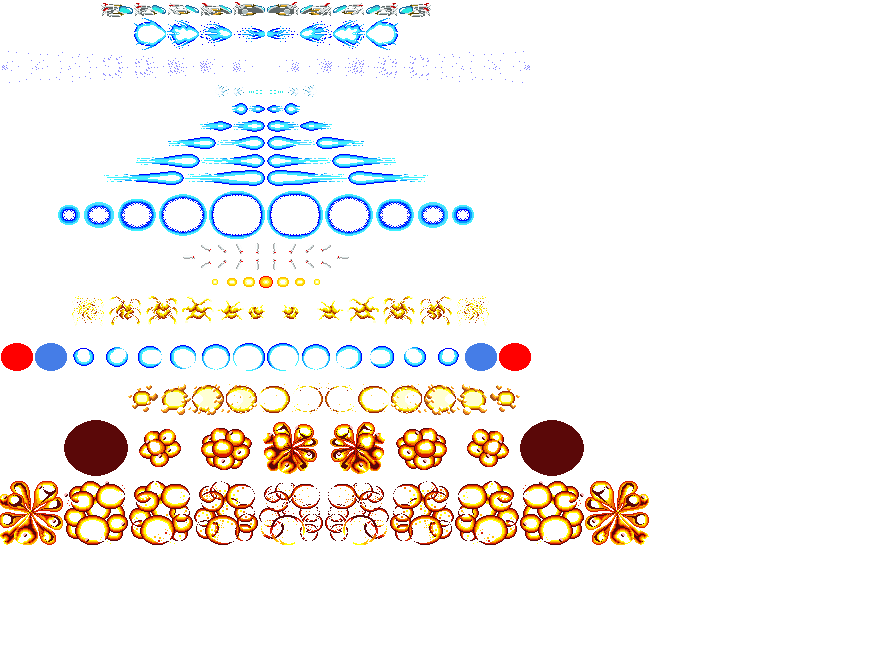
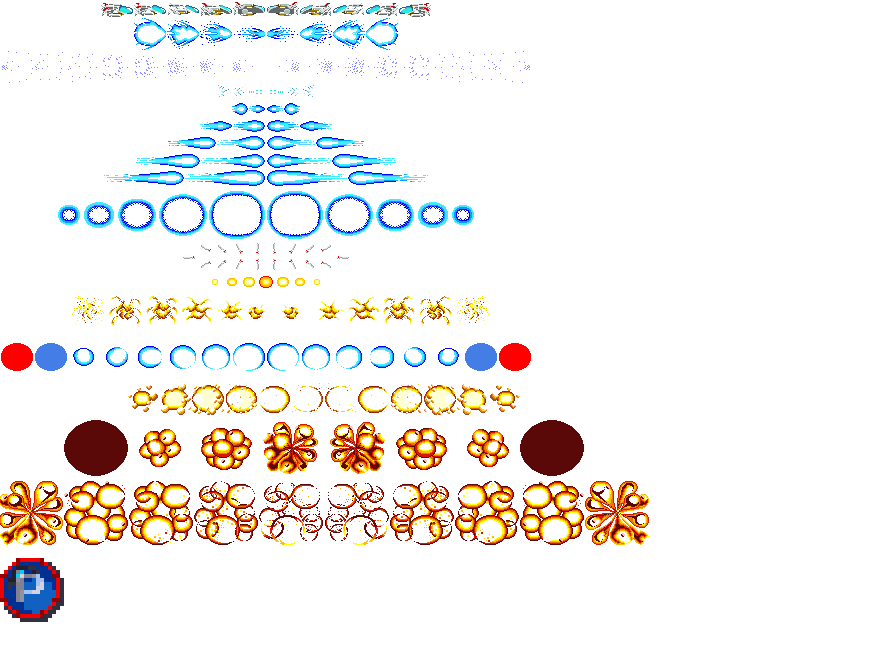
preparacio per al power up

Changed region(s): [[0.0, 0.8655, 0.0924, 0.9583]]

diff --git a/ModuleCollision.cpp b/ModuleCollision.cpp
@@ -11,30 +11,42 @@ ModuleCollision::ModuleCollision(Application* app, bool start_enabled) : Module(
 	matrix[COLLIDER_WALL][COLLIDER_ENEMY] = true;
 	matrix[COLLIDER_WALL][COLLIDER_PLAYER_SHOT] = true;
 	matrix[COLLIDER_WALL][COLLIDER_ENEMY_SHOT] = true;
+	matrix[COLLIDER_WALL][COLLIDER_POWER_UP] = false;
 
 	matrix[COLLIDER_PLAYER][COLLIDER_WALL] = true;
 	matrix[COLLIDER_PLAYER][COLLIDER_PLAYER] = false;
 	matrix[COLLIDER_PLAYER][COLLIDER_ENEMY] = true;
 	matrix[COLLIDER_PLAYER][COLLIDER_PLAYER_SHOT] = false;
 	matrix[COLLIDER_PLAYER][COLLIDER_ENEMY_SHOT] = true;
+	matrix[COLLIDER_PLAYER][COLLIDER_POWER_UP] = true;
 
 	matrix[COLLIDER_ENEMY][COLLIDER_WALL] = true;
 	matrix[COLLIDER_ENEMY][COLLIDER_PLAYER] = true;
 	matrix[COLLIDER_ENEMY][COLLIDER_ENEMY] = false;
 	matrix[COLLIDER_ENEMY][COLLIDER_PLAYER_SHOT] = true;
 	matrix[COLLIDER_ENEMY][COLLIDER_ENEMY_SHOT] = false;
+	matrix[COLLIDER_ENEMY][COLLIDER_POWER_UP] = false;
 
 	matrix[COLLIDER_PLAYER_SHOT][COLLIDER_WALL] = true;
 	matrix[COLLIDER_PLAYER_SHOT][COLLIDER_PLAYER] = false;
 	matrix[COLLIDER_PLAYER_SHOT][COLLIDER_ENEMY] = true;
 	matrix[COLLIDER_PLAYER_SHOT][COLLIDER_PLAYER_SHOT] = false;
 	matrix[COLLIDER_PLAYER_SHOT][COLLIDER_ENEMY_SHOT] = false;
+	matrix[COLLIDER_PLAYER_SHOT][COLLIDER_POWER_UP] = false;
 
 	matrix[COLLIDER_ENEMY_SHOT][COLLIDER_WALL] = true;
 	matrix[COLLIDER_ENEMY_SHOT][COLLIDER_PLAYER] = true;
 	matrix[COLLIDER_ENEMY_SHOT][COLLIDER_ENEMY] = false;
 	matrix[COLLIDER_ENEMY_SHOT][COLLIDER_PLAYER_SHOT] = false;
 	matrix[COLLIDER_ENEMY_SHOT][COLLIDER_ENEMY_SHOT] = false;
+	matrix[COLLIDER_ENEMY_SHOT][COLLIDER_POWER_UP] = false;
+
+	matrix[COLLIDER_POWER_UP][COLLIDER_WALL] = false;
+	matrix[COLLIDER_POWER_UP][COLLIDER_PLAYER] = true;
+	matrix[COLLIDER_POWER_UP][COLLIDER_ENEMY] = false;
+	matrix[COLLIDER_POWER_UP][COLLIDER_PLAYER_SHOT] = false;
+	matrix[COLLIDER_POWER_UP][COLLIDER_ENEMY_SHOT] = false;
+	matrix[COLLIDER_POWER_UP][COLLIDER_POWER_UP] = false;
 }
 
 // Destructor

diff --git a/ModulePlayer.cpp b/ModulePlayer.cpp
@@ -132,7 +132,11 @@ update_status ModulePlayer::Update()
 
 void ModulePlayer::OnCollision(Collider* c1, Collider* c2)
 {
-	if (exploding == false)
+	if (c1->type == COLLIDER_POWER_UP || c2->type == COLLIDER_POWER_UP)
+	{
+
+	}
+	else if (exploding == false)
 	{
 		App->fade->FadeToBlack(App->scene_space, App->scene_intro);
 		exploding = true;

diff --git a/ModuleSceneSpace.cpp b/ModuleSceneSpace.cpp
@@ -280,6 +280,8 @@ bool ModuleSceneSpace::Start()
 	//App->enemy->AddEnemy(App->enemy->worm, 1610, 140, 'bot', NULL);
 
 
+	App->particles->AddParticle(App->particles->power_up, 300, 100, COLLIDER_POWER_UP);
+
 	return true;
 }
 

diff --git a/ModuleParticles.cpp b/ModuleParticles.cpp
@@ -69,6 +69,8 @@ bool ModuleParticles::Start()
 	shot.anim.speed = 0.0f;
 	shot.life = 5000;
 
+	//Power up
+	power_up.anim.frames.PushBack({0, 558, 65, 65 });
 
 	return true;
 }

diff --git a/ModuleCollision.h b/ModuleCollision.h
@@ -12,6 +12,7 @@ enum COLLIDER_TYPE
 	COLLIDER_ENEMY,
 	COLLIDER_PLAYER_SHOT,
 	COLLIDER_ENEMY_SHOT,
+	COLLIDER_POWER_UP,
 
 	COLLIDER_MAX
 };

diff --git a/ModuleParticles.h b/ModuleParticles.h
@@ -50,5 +50,6 @@ public:
 	Particle laser;
 	Particle laser_anim;
 	Particle shot;
+	Particle power_up;
 
 };
